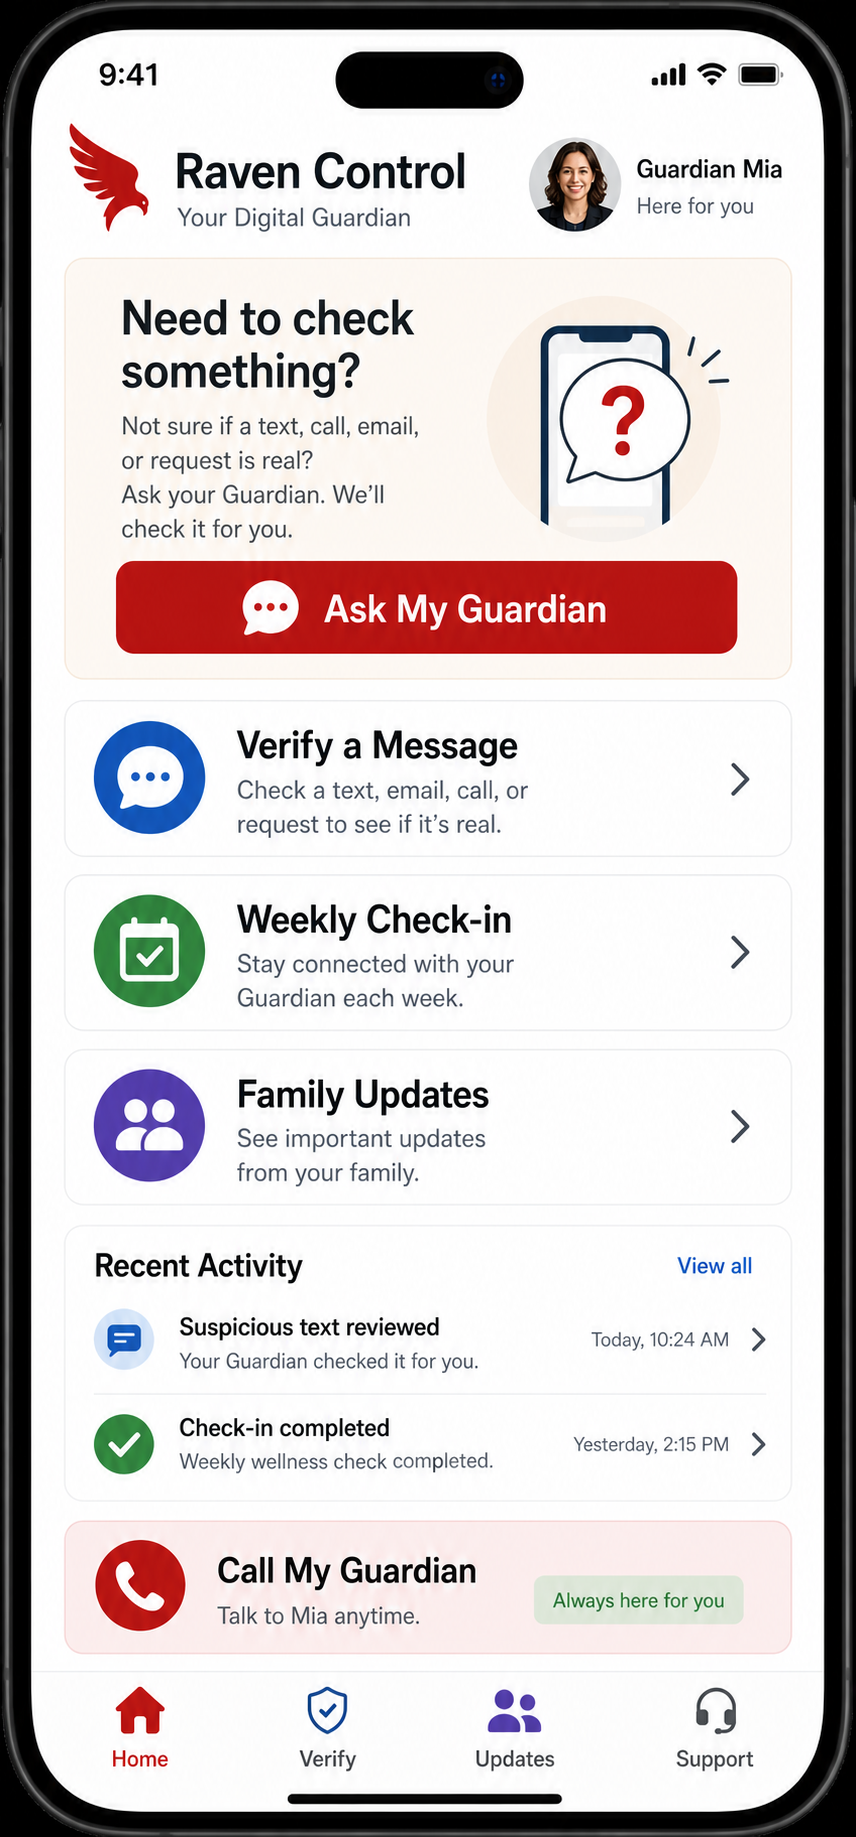
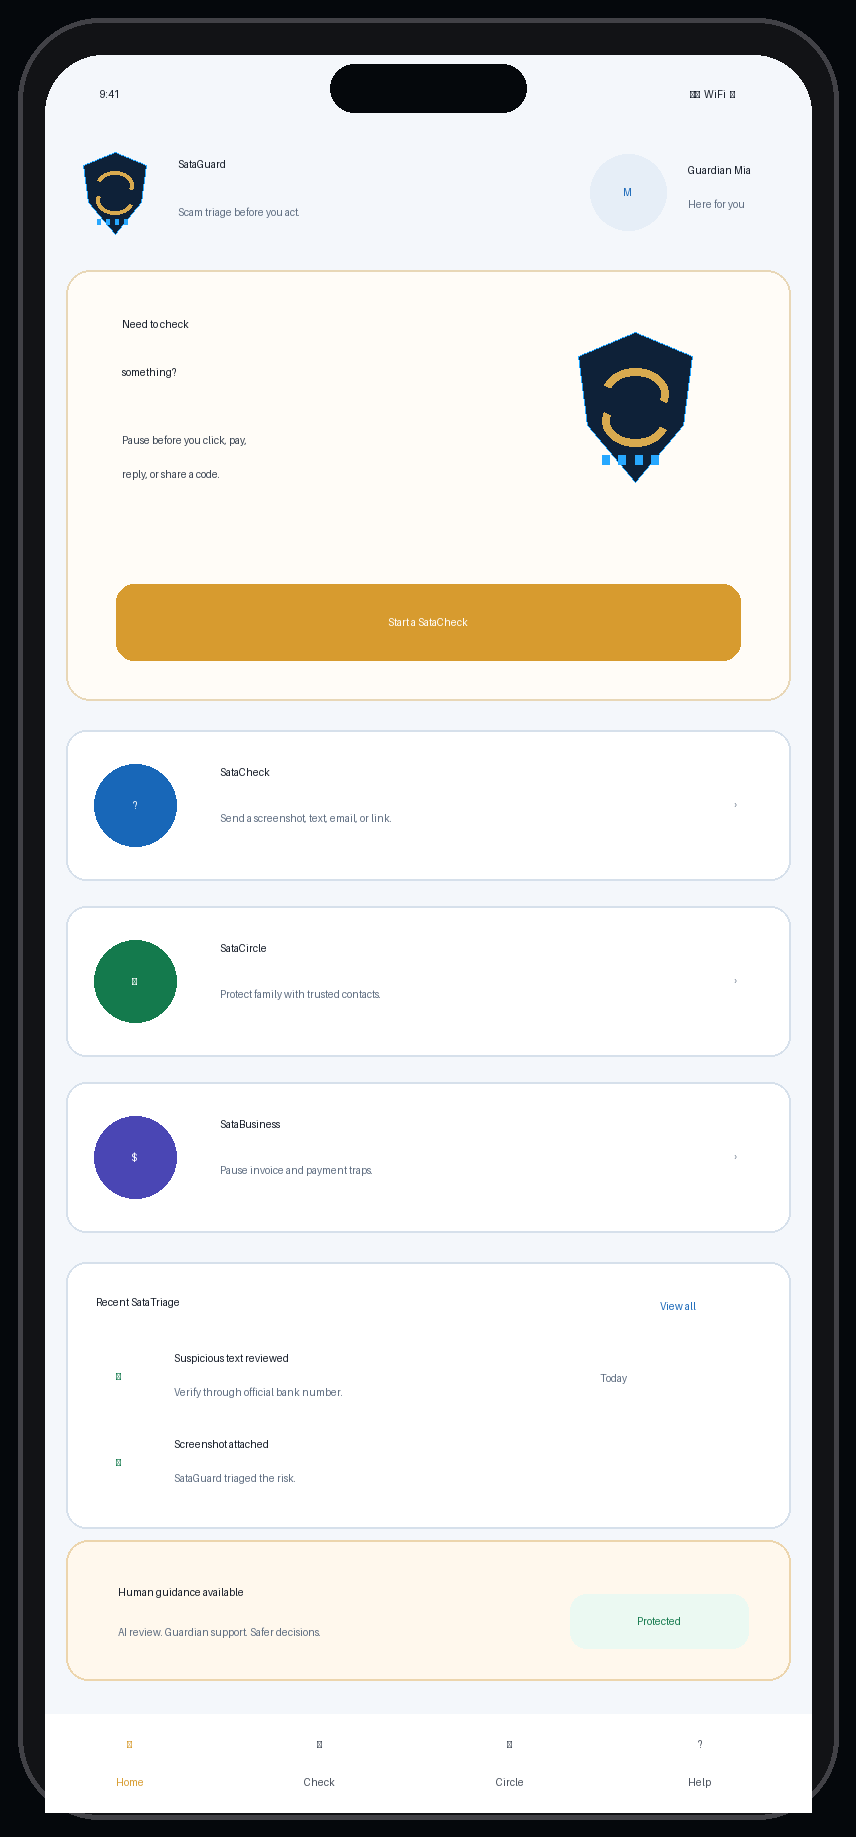
brand: Replace old Raven images with SataGuard visuals
- Regenerate homepage desktop dashboard image with SataGuard branding
- Regenerate mobile app mockup with SataGuard and SataCheck language
- Regenerate memory dashboard as SataVault Memory
- Remove visible Raven Control and Axiom-branded copy from public images
- Add cache-busting query strings for image URLs so browsers show new assets

diff --git a/index.html b/index.html
@@ -33,7 +33,7 @@
 
     <main id="top">
       <section class="hero" aria-label="SataGuard overview">
-        <img src="assets/customer-desktop.png" alt="SataGuard customer dashboard" />
+        <img src="assets/customer-desktop.png?v=sataguard-20260613" alt="SataGuard customer dashboard" />
         <div class="hero-shade"></div>
         <div class="hero-content">
           <p class="eyebrow">The trusted pause for scams, fraud, and risky requests</p>
@@ -98,7 +98,7 @@
           </div>
         </div>
         <figure class="phone-frame">
-          <img src="assets/customer-phone.png" alt="SataGuard mobile app home screen" />
+          <img src="assets/customer-phone.png?v=sataguard-20260613" alt="SataGuard mobile app home screen" />
         </figure>
       </section>
 
@@ -131,7 +131,7 @@
             SataGuard can remember what matters: trusted contacts, known banks, approved vendors, past scams, family rules, and business payment policies.
           </p>
         </div>
-        <img src="assets/axiom-memory.png" alt="SataGuard memory dashboard showing trusted contacts, risk history, protection rules, and next Guardian action" />
+        <img src="assets/axiom-memory.png?v=sataguard-20260613" alt="SataGuard memory dashboard showing trusted contacts, risk history, protection rules, and next Guardian action" />
       </section>
 
       <section class="section plans" id="plans">

diff --git a/scripts_generate_sataguard_assets.py b/scripts_generate_sataguard_assets.py
@@ -1,0 +1,302 @@
+from PIL import Image, ImageDraw, ImageFont, ImageFilter
+from pathlib import Path
+import math
+
+OUT = Path('assets')
+OUT.mkdir(exist_ok=True)
+
+NAVY = (7, 17, 31)
+NAVY2 = (13, 29, 48)
+BLUE = (39, 168, 255)
+BLUE2 = (24, 103, 184)
+GOLD = (216, 170, 79)
+AMBER = (215, 155, 47)
+GREEN = (20, 122, 77)
+SILVER = (226, 234, 244)
+SOFT = (244, 247, 251)
+TEXT = (18, 25, 37)
+MUTED = (93, 108, 128)
+WHITE = (255, 255, 255)
+LINE = (214, 224, 235)
+
+
+def font(size, bold=False):
+    names = [
+        '/usr/share/fonts/truetype/dejavu/DejaVuSans-Bold.ttf' if bold else '/usr/share/fonts/truetype/dejavu/DejaVuSans.ttf',
+        '/usr/share/fonts/truetype/liberation2/LiberationSans-Bold.ttf' if bold else '/usr/share/fonts/truetype/liberation2/LiberationSans-Regular.ttf',
+    ]
+    for n in names:
+        try:
+            return ImageFont.truetype(n, size)
+        except Exception:
+            pass
+    return ImageFont.load_default()
+
+
+def rounded(draw, box, r, fill, outline=None, width=1):
+    draw.rounded_rectangle(box, radius=r, fill=fill, outline=outline, width=width)
+
+
+def gradient_bg(w, h, c1=NAVY, c2=(10, 32, 55)):
+    img = Image.new('RGB', (w, h), c1)
+    pix = img.load()
+    for y in range(h):
+        for x in range(w):
+            t = (x/w*0.55 + y/h*0.45)
+            # soft blue glow
+            glow = math.exp(-(((x-w*0.78)/(w*0.32))**2 + ((y-h*0.22)/(h*0.28))**2))
+            col = tuple(int(c1[i]*(1-t)+c2[i]*t + BLUE[i]*0.18*glow) for i in range(3))
+            pix[x,y] = tuple(max(0,min(255,v)) for v in col)
+    return img
+
+
+def shield_mark(draw, x, y, s, accent=BLUE):
+    # simple shield outline + signal bars, brand-safe no old raven
+    pts = [(x+s*0.5,y), (x+s*0.88,y+s*0.16), (x+s*0.82,y+s*0.62), (x+s*0.5,y+s), (x+s*0.18,y+s*0.62), (x+s*0.12,y+s*0.16)]
+    draw.polygon(pts, fill=(14,33,56), outline=accent)
+    # inner S-like path / triage signal
+    w=max(3,int(s*0.055))
+    draw.arc([x+s*.28,y+s*.24,x+s*.72,y+s*.58], 200, 20, fill=GOLD, width=w)
+    draw.arc([x+s*.28,y+s*.42,x+s*.72,y+s*.76], 20, 200, fill=GOLD, width=w)
+    for i,bar in enumerate([.25,.38,.51,.64]):
+        draw.line([(x+s*.30+i*s*.11,y+s*.82),(x+s*.30+i*s*.11,y+s*.88)], fill=accent, width=w)
+
+
+def text(draw, xy, s, size, fill=TEXT, bold=False, anchor=None):
+    draw.text(xy, s, font=font(size, bold), fill=fill, anchor=anchor)
+
+
+def card(draw, box, title, body=None, icon=None, accent=BLUE):
+    rounded(draw, box, 22, WHITE, LINE, 2)
+    x1,y1,x2,y2=box
+    if icon:
+        rounded(draw, (x1+24,y1+24,x1+86,y1+86), 31, accent, None)
+        text(draw, (x1+55,y1+55), icon, 30, WHITE, True, 'mm')
+        tx=x1+106
+    else:
+        tx=x1+28
+    text(draw, (tx,y1+30), title, 28, TEXT, True)
+    if body:
+        # wrap simple
+        words=body.split(); lines=[]; cur=''
+        max_chars=max(24,int((x2-tx-26)/14))
+        for w in words:
+            if len(cur)+len(w)+1>max_chars:
+                lines.append(cur); cur=w
+            else:
+                cur=(cur+' '+w).strip()
+        if cur: lines.append(cur)
+        for i,line in enumerate(lines[:3]):
+            text(draw, (tx,y1+68+i*27), line, 20, MUTED)
+
+
+def desktop():
+    w,h=1536,1024
+    img=Image.new('RGB',(w,h),SOFT)
+    d=ImageDraw.Draw(img)
+    # sidebar
+    rounded(d,(0,0,285,h),0,NAVY)
+    shield_mark(d,32,48,76)
+    text(d,(122,54),'SataGuard',40,WHITE,True)
+    text(d,(122,104),'Scam triage before you act.',18,GOLD)
+    for i,(name,ic) in enumerate([('SataCheck','✓'),('SataCircle','◎'),('SataBusiness','$'),('SataCompanion','★')]):
+        y=205+i*86
+        fill=(19,44,71) if i else (18,88,145)
+        rounded(d,(22,y,263,y+64),14,fill,None)
+        text(d,(55,y+32),ic,28,WHITE,True,'mm')
+        text(d,(88,y+22),name,22,WHITE,True)
+    rounded(d,(24,820,262,948),16,(15,36,58),(75,94,116),2)
+    shield_mark(d,44,846,44)
+    text(d,(96,848),'Pause. Triage. Verify.',17,WHITE,True)
+    text(d,(96,878),'A calm second look',16,SILVER)
+    text(d,(96,902),'before digital damage.',16,SILVER)
+
+    # header
+    text(d,(330,46),'Welcome back, John',44,TEXT,True)
+    text(d,(330,102),'A trusted pause before risky digital decisions.',24,MUTED)
+    rounded(d,(1248,32,1508,100),18,WHITE,LINE,2)
+    text(d,(1315,50),'John Doe',22,TEXT,True)
+    text(d,(1315,76),'Protected profile',18,MUTED)
+    rounded(d,(1266,48,1298,80),16,BLUE,None)
+    text(d,(1282,64),'J',18,WHITE,True,'mm')
+
+    # main hero check card
+    rounded(d,(820,140,1508,410),22,(255,252,246),(231,211,171),2)
+    text(d,(870,188),'Need to check something?',34,TEXT,True)
+    text(d,(870,242),'Before you click, pay, reply, or share a code,',23,(44,54,69))
+    text(d,(870,275),'send it to SataGuard for triage.',23,(44,54,69))
+    rounded(d,(870,320,1190,382),14,(216,155,47),None)
+    text(d,(1030,351),'Start a SataCheck',25,WHITE,True,'mm')
+    shield_mark(d,1310,178,130)
+    
+    # guardian card
+    rounded(d,(310,140,792,410),22,WHITE,LINE,2)
+    text(d,(338,166),'Your Digital Guardian',24,TEXT,True)
+    rounded(d,(356,205,476,325),60,(231,239,248),None)
+    text(d,(416,265),'M',54,BLUE2,True,'mm')
+    text(d,(510,212),'Guardian Mia',30,TEXT,True)
+    text(d,(510,252),'Human guidance when the risk feels personal.',20,MUTED)
+    rounded(d,(338,345,762,386),12,(235,249,242),None)
+    text(d,(372,354),'✓ Pause before you act.',20,GREEN,True)
+
+    card(d,(310,438,666,584),'SataCheck','Submit one suspicious text, email, screenshot, link, or invoice.','?',BLUE2)
+    card(d,(688,438,1044,584),'SataCircle','Protect parents, grandparents, caregivers, and household members.','◎',GREEN)
+    card(d,(1066,438,1508,584),'SataBusiness','Review vendor changes, invoices, account warnings, and payment traps.','$',(74,70,180))
+
+    rounded(d,(310,610,980,946),22,WHITE,LINE,2)
+    text(d,(338,642),'Recent SataTriage activity',27,TEXT,True)
+    rows=[('Urgent bank text reviewed','Use the official number on your card.','High risk',AMBER),('Suspicious invoice paused','Verify vendor through known contact.','Needs verification',BLUE2),('Family emergency message checked','Trusted contact confirmed safe.','Resolved',GREEN)]
+    for i,(a,b,c,col) in enumerate(rows):
+        y=696+i*78
+        rounded(d,(338,y,382,y+44),22,col,None)
+        text(d,(360,y+22),'✓',22,WHITE,True,'mm')
+        text(d,(405,y-2),a,21,TEXT,True)
+        text(d,(405,y+26),b,18,MUTED)
+        text(d,(810,y+10),c,17,col,True)
+        d.line((338,y+62,942,y+62),fill=(232,237,243),width=1)
+
+    rounded(d,(1004,610,1508,760),22,(239,247,255),(190,215,242),2)
+    shield_mark(d,1046,642,90)
+    text(d,(1160,642),'Your plan: SataCompanion',25,BLUE2,True)
+    text(d,(1160,684),'AI review + human Guardian support',20,(44,54,69))
+    text(d,(1160,716),'for digital-risk moments.',20,(44,54,69))
+    rounded(d,(1004,790,1508,946),22,(255,248,237),(236,213,173),2)
+    text(d,(1050,836),'Pause the pressure.',33,TEXT,True)
+    text(d,(1050,884),'Check first. Act safer.',23,MUTED)
+    img.save(OUT/'customer-desktop.png', quality=95)
+
+
+def phone():
+    w,h=856,1837
+    img=Image.new('RGB',(w,h),(5,8,12))
+    d=ImageDraw.Draw(img)
+    # phone shell
+    rounded(d,(18,18,w-18,h-18),82,(18,19,22),(65,65,70),5)
+    rounded(d,(45,55,w-45,h-55),58,SOFT,None)
+    d.rounded_rectangle((330,64,526,112),radius=28,fill=(5,8,12))
+    text(d,(100,88),'9:41',28,TEXT,True)
+    text(d,(690,88),'▮▮  WiFi  ▱',20,TEXT,True)
+    # header
+    shield_mark(d,74,152,82)
+    text(d,(178,158),'SataGuard',42,TEXT,True)
+    text(d,(178,206),'Scam triage before you act.',22,MUTED)
+    rounded(d,(590,154,666,230),38,(230,238,247),None)
+    text(d,(628,192),'M',34,BLUE2,True,'mm')
+    text(d,(688,164),'Guardian Mia',24,TEXT,True)
+    text(d,(688,198),'Here for you',20,MUTED)
+    # hero
+    rounded(d,(66,270,790,700),24,(255,252,247),(232,215,183),2)
+    text(d,(122,318),'Need to check',42,TEXT,True)
+    text(d,(122,366),'something?',42,TEXT,True)
+    text(d,(122,434),'Pause before you click, pay,',24,(55,65,80))
+    text(d,(122,468),'reply, or share a code.',24,(55,65,80))
+    shield_mark(d,560,332,150)
+    rounded(d,(116,584,740,660),18,AMBER,None)
+    text(d,(428,622),'Start a SataCheck',32,WHITE,True,'mm')
+    
+    y=730
+    items=[('SataCheck','Send a screenshot, text, email, or link.','? ',BLUE2),('SataCircle','Protect family with trusted contacts.','◎',GREEN),('SataBusiness','Pause invoice and payment traps.','$',(74,70,180))]
+    for title,body,ic,col in items:
+        rounded(d,(66,y,790,y+150),20,WHITE,LINE,2)
+        rounded(d,(94,y+34,176,y+116),41,col,None)
+        text(d,(135,y+75),ic.strip(),32,WHITE,True,'mm')
+        text(d,(220,y+36),title,32,TEXT,True)
+        text(d,(220,y+82),body,22,MUTED)
+        text(d,(736,y+74),'›',46,MUTED,False,'mm')
+        y += 176
+    rounded(d,(66,y+4,790,y+270),20,WHITE,LINE,2)
+    text(d,(96,y+38),'Recent SataTriage',30,TEXT,True)
+    text(d,(660,y+42),'View all',20,BLUE2,True)
+    text(d,(116,y+112),'✓',30,GREEN,True)
+    text(d,(174,y+94),'Suspicious text reviewed',25,TEXT,True)
+    text(d,(174,y+128),'Verify through official bank number.',21,MUTED)
+    text(d,(600,y+114),'Today',18,MUTED)
+    text(d,(116,y+198),'✓',30,GREEN,True)
+    text(d,(174,y+180),'Screenshot attached',25,TEXT,True)
+    text(d,(174,y+214),'SataGuard triaged the risk.',21,MUTED)
+    # bottom CTA
+    rounded(d,(66,1540,790,1680),22,(255,248,237),(236,213,173),2)
+    text(d,(118,1586),'Human guidance available',28,TEXT,True)
+    text(d,(118,1626),'AI review. Guardian support. Safer decisions.',20,MUTED)
+    rounded(d,(570,1594,748,1648),16,(235,249,242),None)
+    text(d,(659,1621),'Protected',18,GREEN,True,'mm')
+    # tab bar
+    rounded(d,(45,1714,w-45,1812),0,WHITE,None)
+    for i,(lbl,ic) in enumerate([('Home','⌂'),('Check','✓'),('Circle','◎'),('Help','?')]):
+        x=130+i*190
+        col=AMBER if i==0 else (70,78,90)
+        text(d,(x,1744),ic,32,col,True,'mm')
+        text(d,(x,1782),lbl,18,col,True,'mm')
+    img.save(OUT/'customer-phone.png', quality=95)
+
+
+def memory():
+    w,h=1600,980
+    img=Image.new('RGB',(w,h),SOFT)
+    d=ImageDraw.Draw(img)
+    rounded(d,(36,36,w-36,h-36),30,WHITE,LINE,2)
+    rounded(d,(66,66,w-66,172),24,NAVY,None)
+    shield_mark(d,98,92,54)
+    text(d,(170,90),'SataVault Memory',40,WHITE,True)
+    text(d,(170,134),'Trusted context for scam triage and Guardian follow-up.',22,SILVER)
+    rounded(d,(1190,92,1408,136),22,AMBER,None)
+    text(d,(1299,114),'Companion profile',22,WHITE,True,'mm')
+    rounded(d,(1412,92,1530,136),22,BLUE2,None)
+    text(d,(1471,114),'High care',21,WHITE,True,'mm')
+
+    def panel(box,title,accent=BLUE):
+        rounded(d,box,18,WHITE,LINE,2)
+        x1,y1,x2,y2=box
+        rounded(d,(x1+26,y1+26,x1+38,y1+70),6,accent,None)
+        text(d,(x1+54,y1+28),title,28,TEXT,True)
+    panel((88,214,548,500),'Protected Person',AMBER)
+    rounded(d,(124,290,216,382),46,(255,232,232),None)
+    text(d,(170,336),'LC',30,(190,25,32),True,'mm')
+    text(d,(244,292),'Linda Carter',38,TEXT,True)
+    text(d,(244,338),'Age 78 • SataCompanion',22,MUTED)
+    text(d,(122,424),'Prefers phone calls. Daughter receives',20,TEXT)
+    text(d,(122,452),'high-risk alerts before action.',20,TEXT)
+
+    panel((588,214,1528,500),'Trusted Contacts And Rules',BLUE2)
+    contacts=[('M','Maya Carter','Daughter - call/text for High or Critical alerts',BLUE2),('T','Tyler Carter','Grandson - verified family emergency contact',GREEN)]
+    for i,(init,name,desc,col) in enumerate(contacts):
+        y=292+i*92
+        rounded(d,(626,y,690,y+64),32,col,None)
+        text(d,(658,y+32),init,28,WHITE,True,'mm')
+        text(d,(710,y+0),name,26,TEXT,True)
+        text(d,(710,y+34),desc,18,MUTED)
+        rounded(d,(1122,y+14,1238,y+54),20,(236,241,247),None)
+        text(d,(1180,y+34),'Trusted',20,TEXT,True,'mm')
+
+    panel((88,540,548,888),'Risk History',AMBER)
+    risks=[('Bank impersonation text','Reviewed May 28 • High risk'),('Package delivery scam','Reviewed June 2 • Medium risk'),('Unknown tech support call','Reviewed June 8 • Critical risk')]
+    for i,(a,b) in enumerate(risks):
+        y=616+i*84
+        rounded(d,(124,y,512,y+58),14,(255,248,237),(238,201,139),1)
+        text(d,(148,y+12),a,22,TEXT,True)
+        text(d,(148,y+38),b,18,MUTED)
+
+    panel((588,540,1030,888),'Protection Rules',GREEN)
+    rules=['No gift cards for callers.','Never share security codes.','Verify emergencies through Maya.','No wire, crypto, or Zelle until reviewed.']
+    for i,r in enumerate(rules):
+        y=616+i*60
+        rounded(d,(626,y,984,y+48),14,(235,249,242),(188,224,206),1)
+        text(d,(650,y+13),r,18,TEXT)
+
+    panel((1068,540,1528,888),'Next Guardian Action',(204,29,45))
+    rounded(d,(1106,616,1492,776),18,(255,238,239),(248,183,188),2)
+    text(d,(1136,648),'Call Linda before noon',26,TEXT,True)
+    text(d,(1136,688),'Review tech support call. Remind her',20,TEXT)
+    text(d,(1136,718),'not to install remote access tools.',20,TEXT)
+    rounded(d,(1136,798,1410,842),22,NAVY,None)
+    text(d,(1273,820),'Guardian Mia assigned',21,WHITE,True,'mm')
+    text(d,(1136,866),'SataGuard remembers the pattern.',18,MUTED)
+
+    rounded(d,(86,912,1518,948),18,(235,240,246),None)
+    text(d,(116,920),'Memory fields: trusted contacts • past scams • approved vendors • family rules • payment policies',18,MUTED)
+    text(d,(1336,920),'SataGuard',20,TEXT,True)
+    img.save(OUT/'axiom-memory.png', quality=95)
+
+if __name__ == '__main__':
+    desktop(); phone(); memory()
+    print('Generated SataGuard PNG assets.')